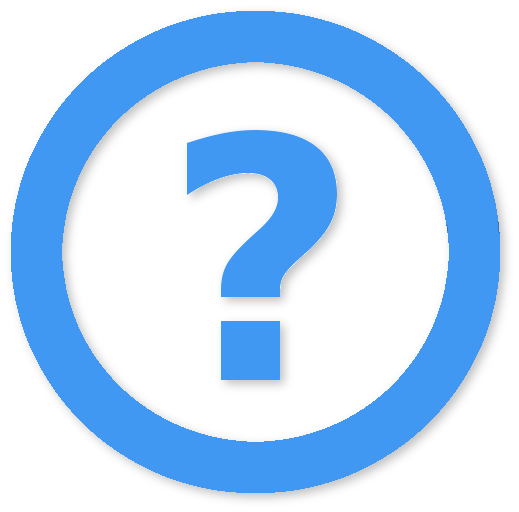
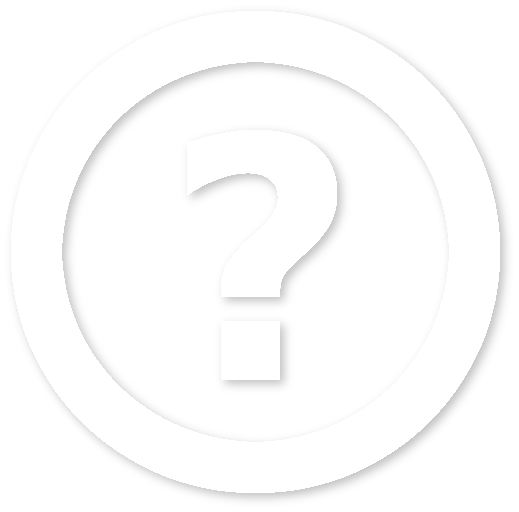
add color and style to button

diff --git a/src/app/merge/merge.less b/src/app/merge/merge.less
@@ -26,16 +26,31 @@ main {
   .merge_panel {
     display: flex;
     margin-top: 2px;
-    border-style: solid;
-    border-width: 5px;
-    border-color: #e7e7e7;
-    background-color: #f8f8f8;
+    height: 60px;
 
-    a {
-      margin: auto;
+    button {
+      width: 34%;
+      border-radius: 3px;
+      border-style: outset;
+      border-width: 3px;
 
       img {
-        width: 50px;
+        height: 40px;
+      }
+
+      &#ask {
+        background-color: #4098f3;
+        border-color: #268bf3;
+      }
+
+      &#yes {
+        background-color: #27a93c;
+        border-color: #15b12e;
+      }
+
+      &#no {
+        background-color: #d71c1c;
+        border-color: #d11515;
       }
     }
   }

diff --git a/src/app/merge/merge.tpl.html b/src/app/merge/merge.tpl.html
@@ -11,9 +11,9 @@
         </div>
     </div>
     <div class="merge_panel">
-        <a href="#"><img src="assets/img/no.png" id="no"></a>
-        <a href="#"><img src="assets/img/yes.png" id="yes"></a>
-        <a href="#"><img src="assets/img/ask.png" id="ask"></a>
+        <button id="ask"><img src="assets/img/ask.png"></button>
+        <button id="yes"><img src="assets/img/yes.png"></button>
+        <button id="no"><img src="assets/img/no.png"></button>
     </div>
     <div class="book_area">
         <div class="cover">
